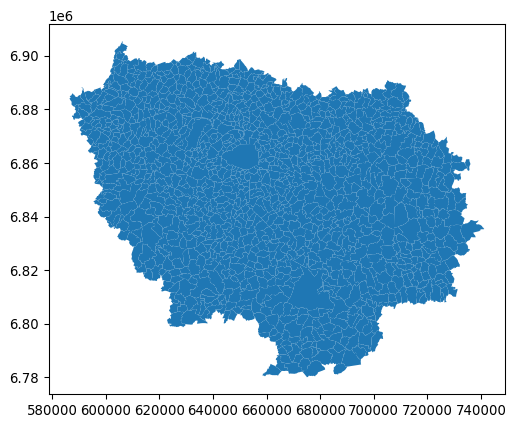
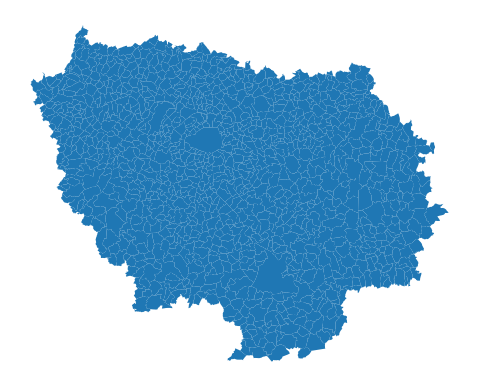
Quick fix en lien avec #63
close #63

Changed region(s): [[0.0, 0.0309, 0.9958, 0.9897]]

diff --git a/README.md b/README.md
@@ -1,11 +1,19 @@
-[![Code style: black](https://img.shields.io/badge/code%20style-black-000000.svg)](https://github.com/psf/black)
-
 # `cartiflette` <img src="cartiflette.png" align="right" height="139" />
 
+<div>
+
+[![](https://img.shields.io/badge/code%20style-black-000000.svg)](https://github.com/psf/black)
+
+Code style: black
+
+</div>
 
 `cartiflette` est un projet pour faciliter l’association de sources
 géographiques en proposant des récupérations facilitées de coutours de
 cartes officiels.
+
+Une documentation interactive est en préfiguration sur la plateforme
+observable: https://observablehq.com/@linogaliana/cartiflette-demo
 
 ## Installation
 
@@ -28,44 +36,61 @@ communes de la région Normandie:
 import cartiflette.s3
 
 normandie = cartiflette.s3.download_vectorfile_url_all(
+    crs = 4326,
     values = "11",
-    level="COMMUNE",
-    vectorfile_format="geojson",
-    decoupage="region",
+    borders="COMMUNE",
+    vectorfile_format="topojson",
+    filter_by="REGION",
+    source="EXPRESS-COG-CARTO-TERRITOIRE",
     year=2022)
 ax = normandie.plot()
 ax.set_axis_off()
 ```
 
-![](README_files/figure-commonmark/cell-2-output-1.png)
+    https://minio.lab.sspcloud.fr/projet-cartiflette/diffusion/shapefiles-test1/year=2022/administrative_level=COMMUNE/crs=4326/REGION=11/vectorfile_format=topojson/provider=IGN/source=EXPRESS-COG-CARTO-TERRITOIRE/raw.topojson
+
+![](README_files/figure-commonmark/cell-2-output-2.png)
 
 ou des régions Ile de France, Normandie et Bourgogne
 
 ``` python
 regions = cartiflette.s3.download_vectorfile_url_all(
+    crs = 4326,
     values = ["11","27","28"],
-    level="COMMUNE",
-    vectorfile_format="GPKG",
-    decoupage="region",
+    borders="COMMUNE",
+    vectorfile_format="topojson",
+    filter_by="REGION",
+    source="EXPRESS-COG-CARTO-TERRITOIRE",
     year=2022)
+
 ax = regions.plot()
 ax.set_axis_off()
 ```
 
-![](README_files/figure-commonmark/cell-3-output-1.png)
+    https://minio.lab.sspcloud.fr/projet-cartiflette/diffusion/shapefiles-test1/year=2022/administrative_level=COMMUNE/crs=4326/REGION=11/vectorfile_format=topojson/provider=IGN/source=EXPRESS-COG-CARTO-TERRITOIRE/raw.topojson
+    https://minio.lab.sspcloud.fr/projet-cartiflette/diffusion/shapefiles-test1/year=2022/administrative_level=COMMUNE/crs=4326/REGION=27/vectorfile_format=topojson/provider=IGN/source=EXPRESS-COG-CARTO-TERRITOIRE/raw.topojson
+    https://minio.lab.sspcloud.fr/projet-cartiflette/diffusion/shapefiles-test1/year=2022/administrative_level=COMMUNE/crs=4326/REGION=28/vectorfile_format=topojson/provider=IGN/source=EXPRESS-COG-CARTO-TERRITOIRE/raw.topojson
+
+![](README_files/figure-commonmark/cell-3-output-2.png)
 
 ``` python
-regions = cartiflette.s3.download_vectorfile_url_all(
-    values = ["75", "92", "93", "94"],
-    level="COMMUNE_ARRONDISSEMENT",
-    vectorfile_format="geojson",
-    decoupage="departement",
+regions =  cartiflette.s3.download_vectorfile_url_all(
+    crs = 4326,
+    values = ["11","27","28"],
+    borders="COMMUNE_ARRONDISSEMENT",
+    vectorfile_format="topojson",
+    filter_by="DEPARTEMENT",
+    source="EXPRESS-COG-CARTO-TERRITOIRE",
     year=2022)
 ax = regions.plot()
 ax.set_axis_off()
 ```
 
-![](README_files/figure-commonmark/cell-4-output-1.png)
+    https://minio.lab.sspcloud.fr/projet-cartiflette/diffusion/shapefiles-test1/year=2022/administrative_level=COMMUNE_ARRONDISSEMENT/crs=4326/DEPARTEMENT=11/vectorfile_format=topojson/provider=IGN/source=EXPRESS-COG-CARTO-TERRITOIRE/raw.topojson
+    https://minio.lab.sspcloud.fr/projet-cartiflette/diffusion/shapefiles-test1/year=2022/administrative_level=COMMUNE_ARRONDISSEMENT/crs=4326/DEPARTEMENT=27/vectorfile_format=topojson/provider=IGN/source=EXPRESS-COG-CARTO-TERRITOIRE/raw.topojson
+    https://minio.lab.sspcloud.fr/projet-cartiflette/diffusion/shapefiles-test1/year=2022/administrative_level=COMMUNE_ARRONDISSEMENT/crs=4326/DEPARTEMENT=28/vectorfile_format=topojson/provider=IGN/source=EXPRESS-COG-CARTO-TERRITOIRE/raw.topojson
+
+![](README_files/figure-commonmark/cell-4-output-2.png)
 
 ## Plus de détails
 
